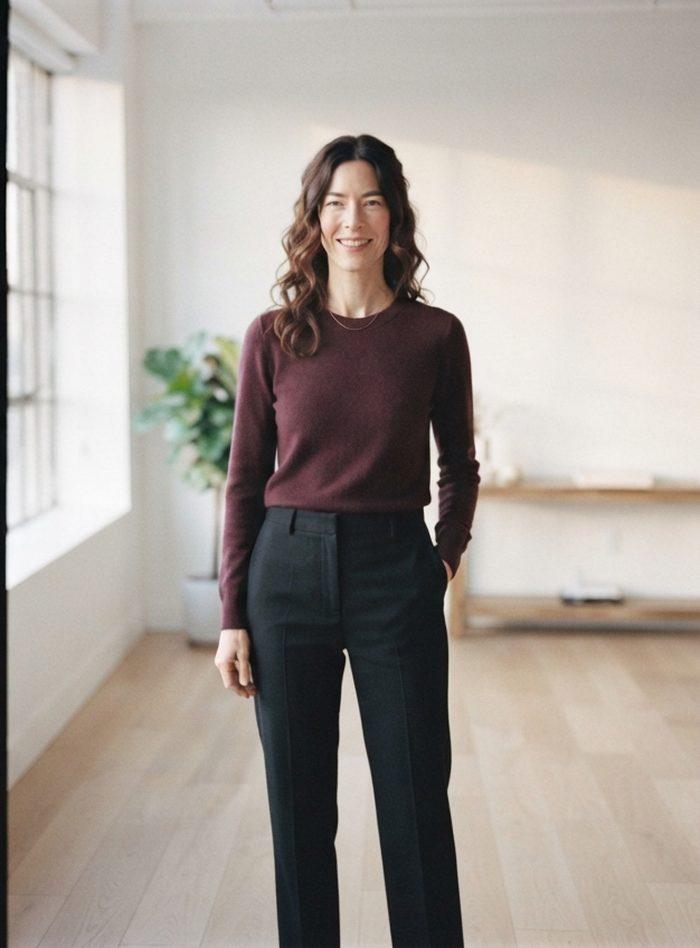
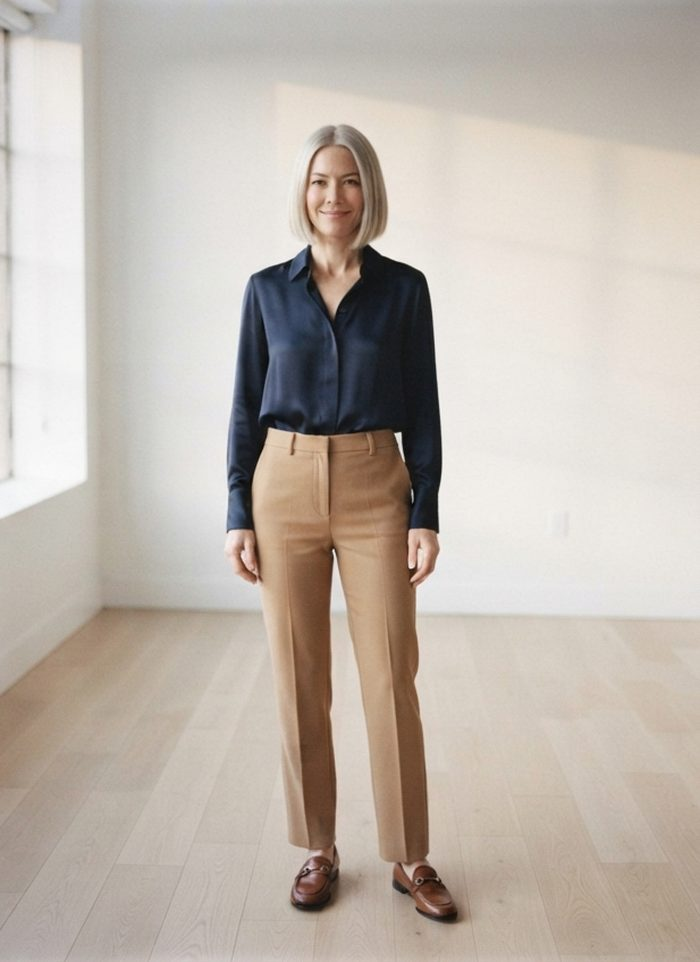
Claire redessinee (blonde) et portrait About en format portrait
Claude-Session: https://claude.ai/code/session_013Y3tAn1m5GU216fStCtFck

diff --git a/style/about.html b/style/about.html
@@ -28,7 +28,13 @@
 </section>
 
 <section style="padding-top:0;padding-bottom:clamp(30px,4vw,60px)">
-  <img class="ph-img rv" src="img/portrait.jpg" alt="Juno Hale at the studio" loading="lazy" style="width:100%;height:clamp(240px,42vw,460px);object-fit:cover;object-position:50% 20%;display:block;border-radius:6px">
+  <div class="split" style="align-items:center">
+    <div style="flex:0 1 360px"><img class="ph-img rv" src="img/portrait.jpg" alt="Juno Hale at the studio" loading="lazy" style="width:100%;height:auto;display:block;border-radius:6px"></div>
+    <div style="flex:1 1 300px" class="body">
+      <p class="rv" style="font-size:clamp(18px,2.1vw,23px);line-height:1.45;color:var(--ink)">Nine years of shop windows taught me how a person is read in two seconds from across a street. Everything since has been about making that two seconds say the right thing.</p>
+      <p class="rv" style="color:var(--mute);font-size:14.5px">Juno Hale &middot; image consultant, West Village</p>
+    </div>
+  </div>
 </section>
 
 <section style="padding-top:0">
